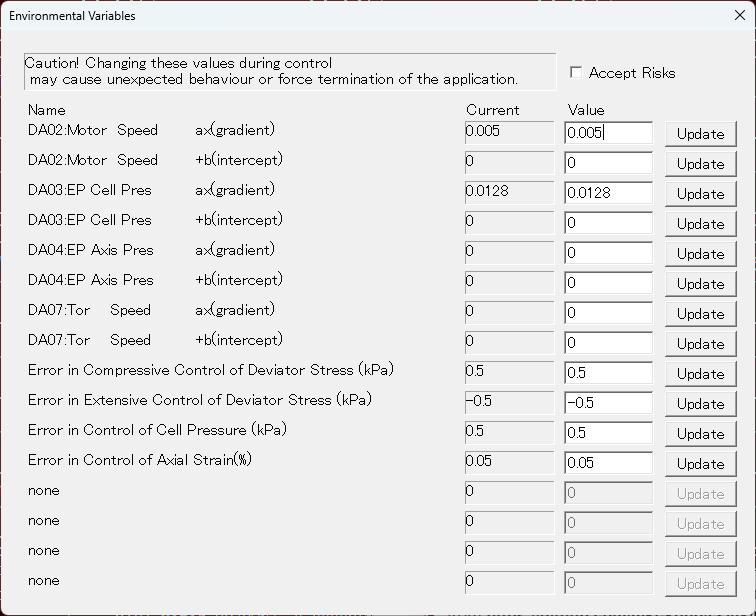
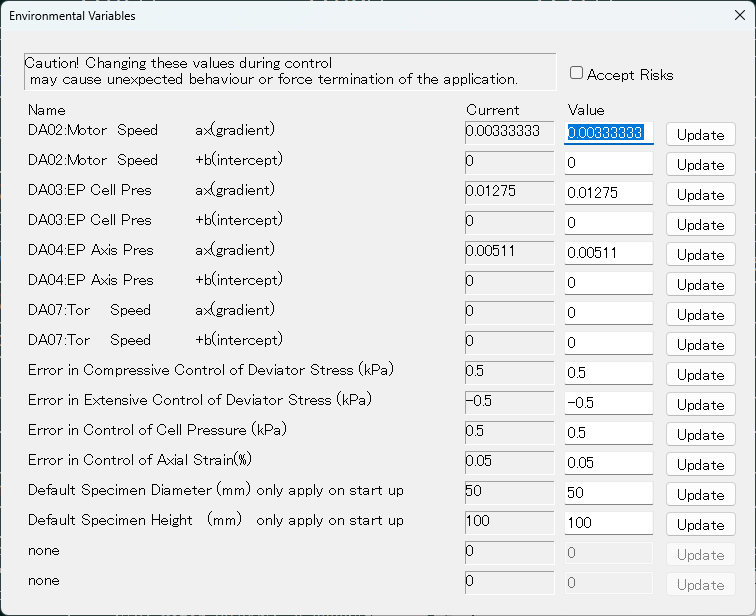
update latex, add img

diff --git a/main.tex b/main.tex
@@ -113,7 +113,7 @@
 % {\begin{tcolorbox}[enhanced, breakable=true]\begin{lstlisting}[numbers=left, breaklines=true, basicstyle=\ttfamily, xleftmargin=2.5em, lineskip=-1.4ex]}
 % {\end{lstlisting}\end{tcolorbox}}
 
-\title{DigitShow Modbusのいろは}
+\title{DigitShow Modbus（v4.4.0）のいろは}
 \author{
     Makoto KUNO\thanks{東京大学生産技術研究所桑野研究室技術職員 \faGithub\url{https://github.com/mkt-kuno}} \and 
     Hiroyuki HASHIMOTO\thanks{東京大学生産技術研究所桑野研究室博士課程 \faGithub\url{https://github.com/Hiroyuki-Hashimoto}} \and 
